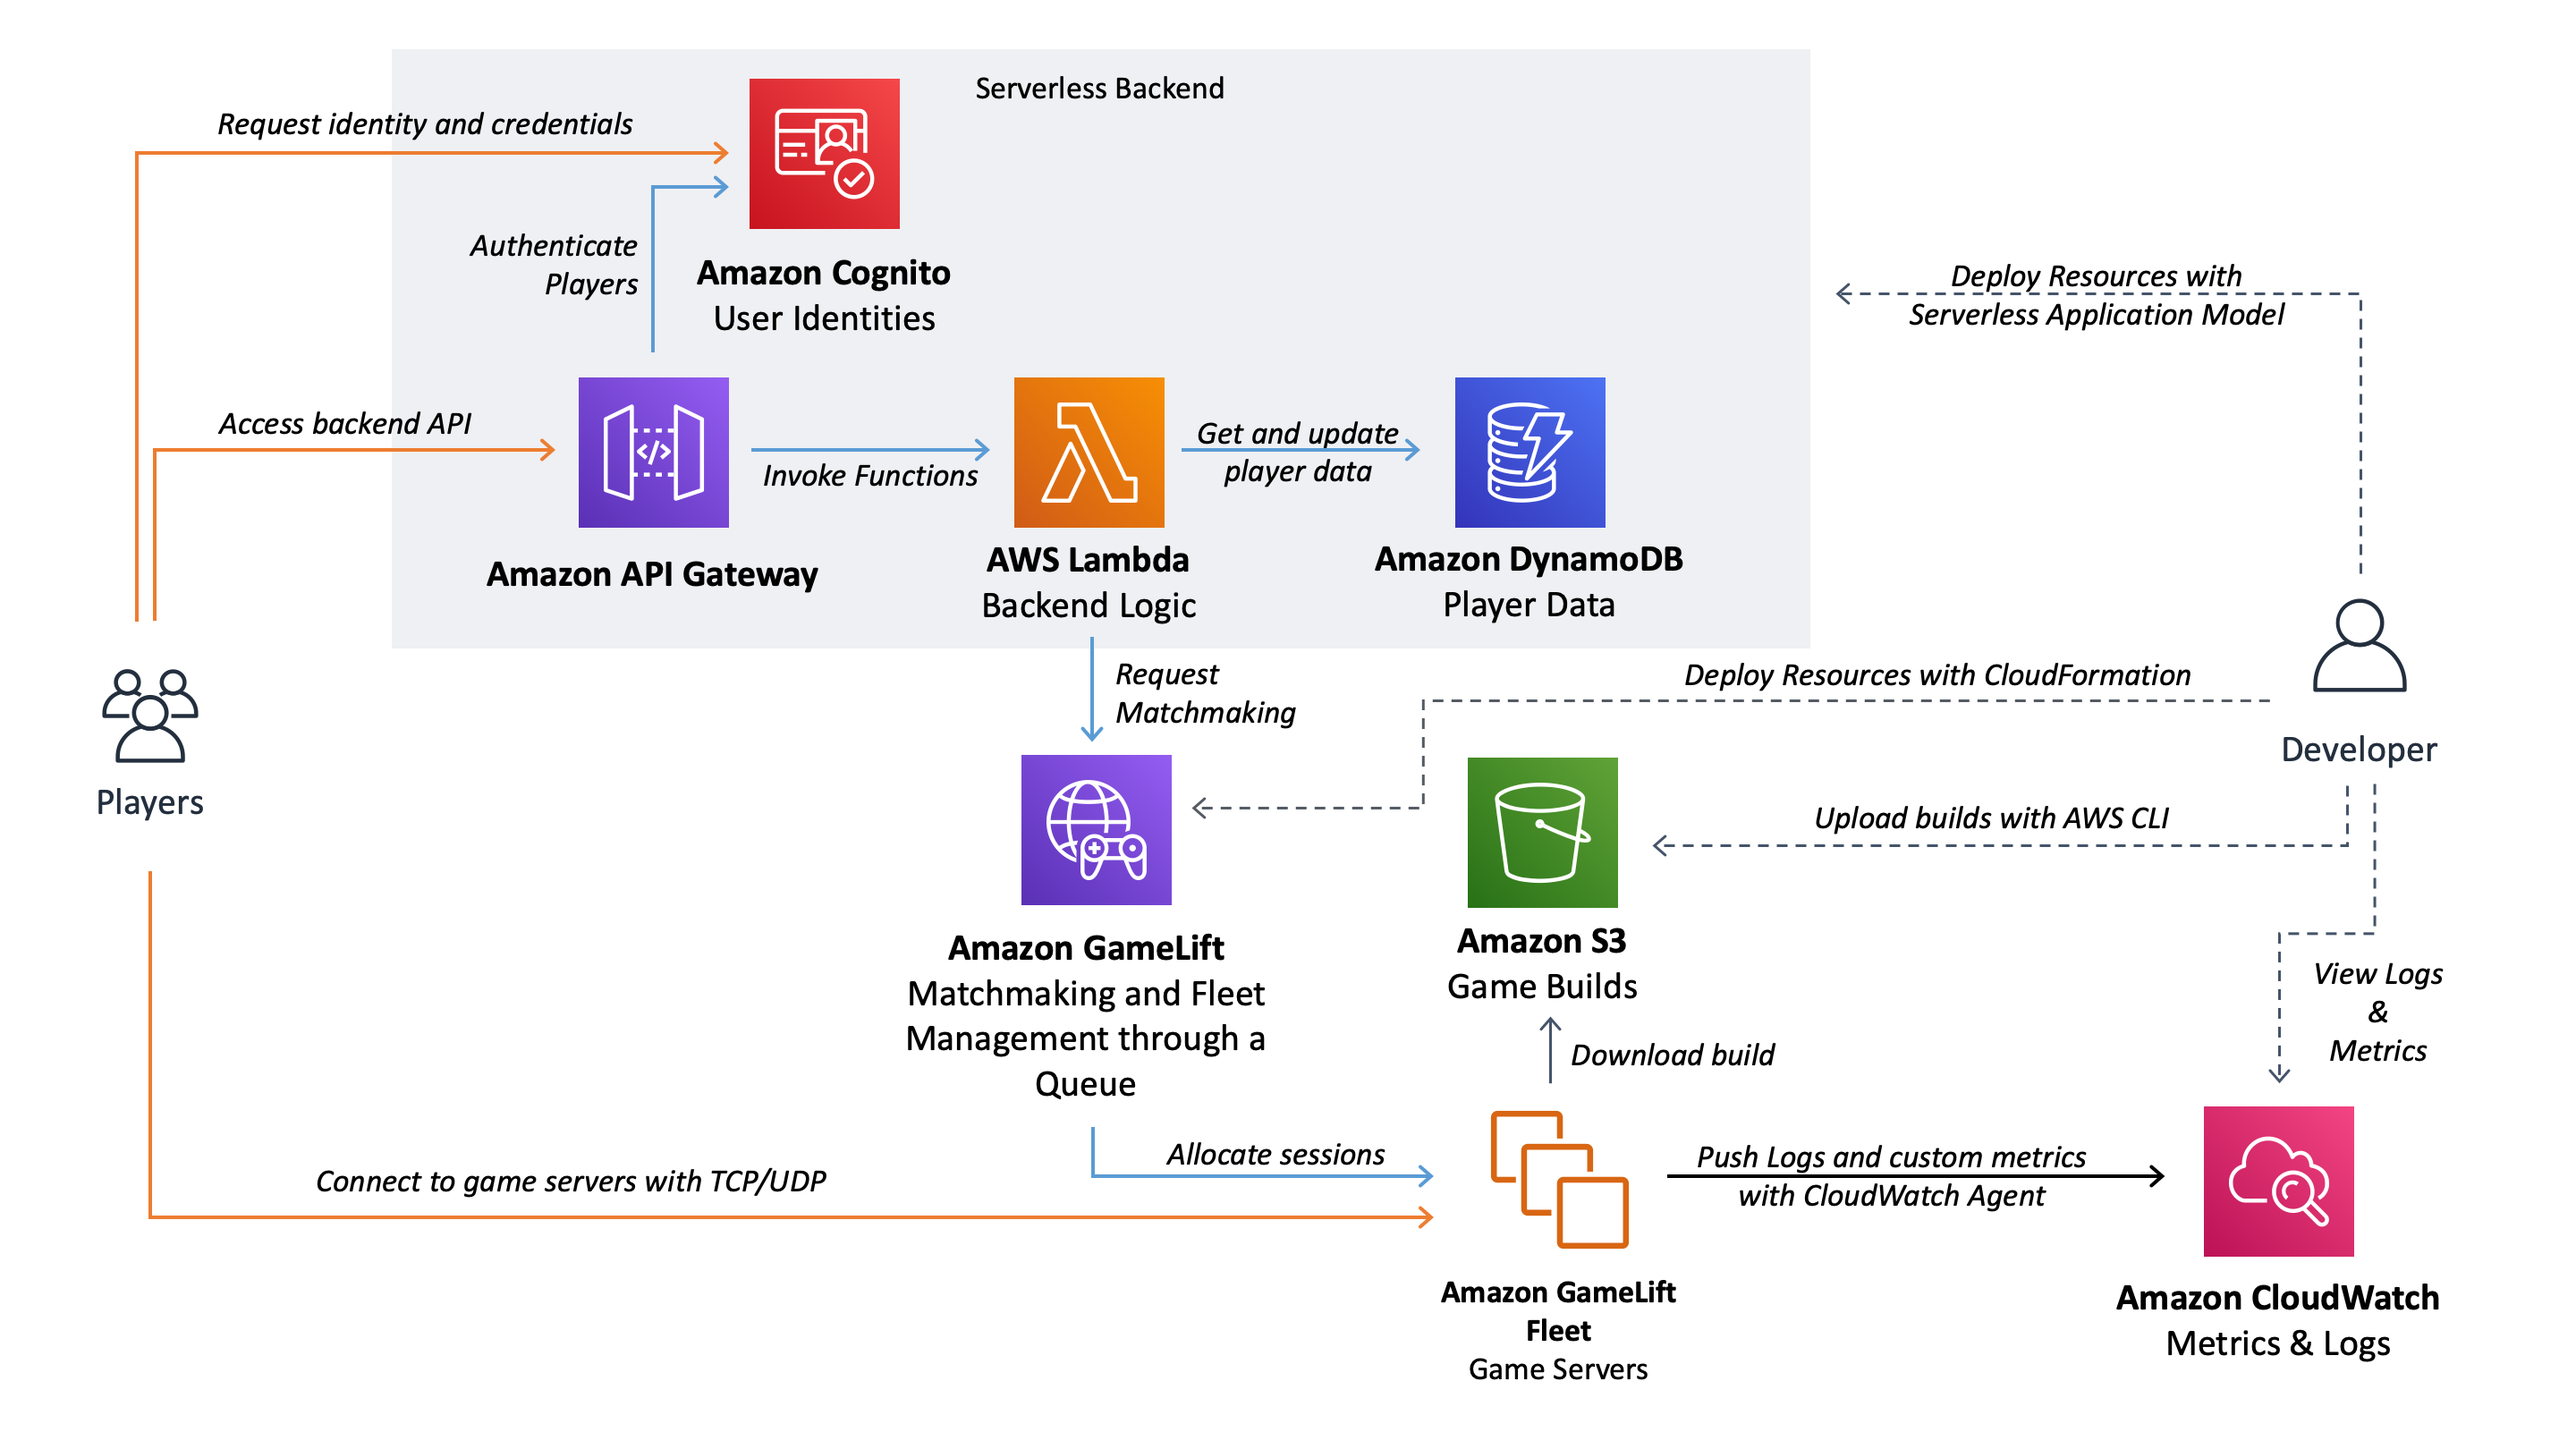
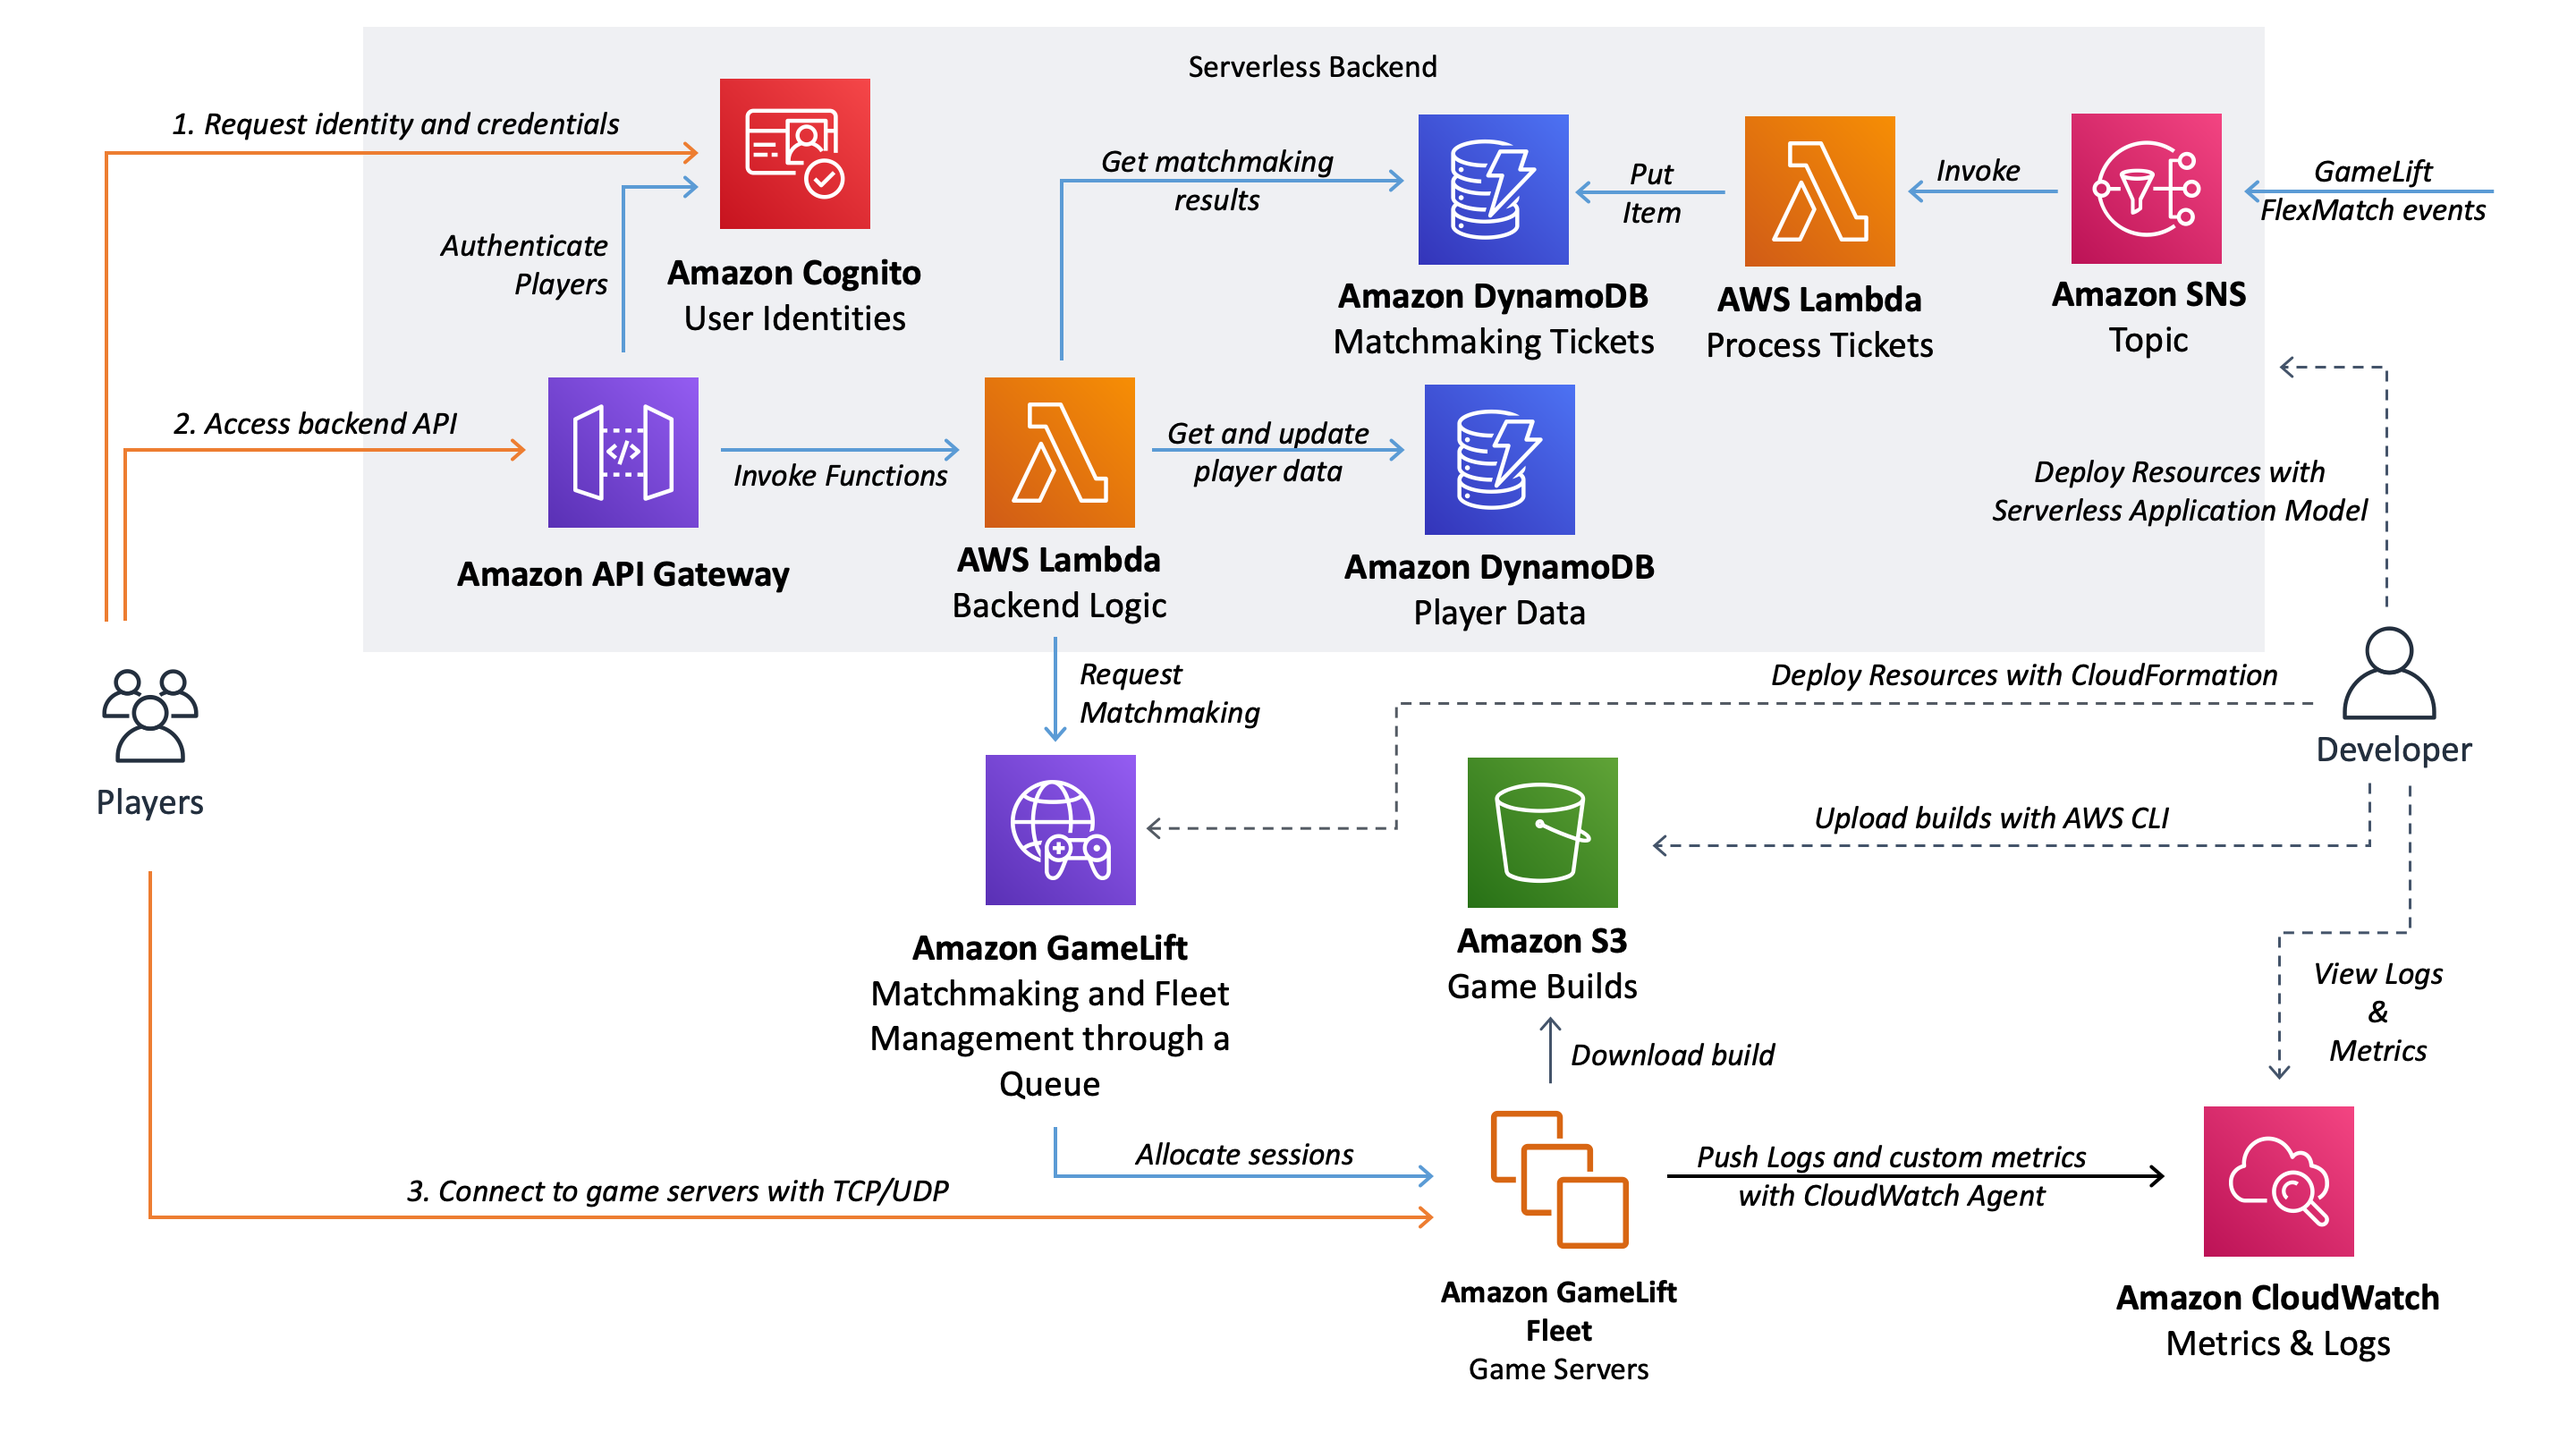
Process FlexMatch events with a Lambda function and store ticket information in DynamoDB

diff --git a/GameServiceAPI/gameservice/processmatchmakingevents.js b/GameServiceAPI/gameservice/processmatchmakingevents.js
@@ -1,0 +1,59 @@
+// Copyright Amazon.com, Inc. or its affiliates. All Rights Reserved.
+// SPDX-License-Identifier: Apache-2.0
+
+const AWS = require('aws-sdk');
+
+exports.handler = async (event, context, callback) => {
+
+    var ddb = new AWS.DynamoDB({apiVersion: '2012-08-10'});
+
+    //Parse the FlexMatch message
+    var message = event.Records[0].Sns.Message;
+    message = JSON.parse(message);
+    console.log('Message received from SNS:', message);
+    console.log('Event type:' + message.detail.type)
+    var type = message.detail.type
+    // Only process if matchmaking succeeded
+    if(type == 'MatchmakingSucceeded')
+    {
+      console.log("Succeeded matchmaking.")
+      var ip = message.detail.gameSessionInfo.ipAddress
+      var port = message.detail.gameSessionInfo.port
+      var dnsName = message.detail.gameSessionInfo.dnsName
+
+      // Get Epoch for TTL, we expire in 1 hour
+      var date = new Date();
+      date.setHours(date.getHours() + 1);
+      var epochDate = parseInt(date.getTime()/1000);
+
+      // Go through the tickets and write to DynamoDB
+      for (var i = 0; i < message.detail.tickets.length; i++)
+      {
+        var ticketId = message.detail.tickets[i].ticketId
+        // Note: We know there's only one player session in each ticket, this might be different based on your implementation!
+        var playerSessionId = message.detail.tickets[i].players[0].playerSessionId
+        console.log("Ticket: " + ticketId)
+        console.log("PlayerSessionId: " + playerSessionId)
+        // Write to DynamoDB
+        var params = {
+          TableName: 'GameLiftExampleMatchmakingTickets',
+          Item: {
+            'TicketID' : {S: ticketId},
+            'playerSessionId' : {S: playerSessionId},
+            'ip' : {S: ip},
+            'port' : {S: port.toString()},
+            'dnsName' : {S: dnsName},
+            'TTL' : {N: epochDate.toString()}
+          }
+        };
+        // Call DynamoDB to add the item to the table
+        await ddb.putItem(params).promise().then(data => {
+            console.log("Success", data);
+        }).catch(err => {
+          console.log("Error in put item:", err);
+        });
+      }
+    }
+
+    callback(null, "Success");
+};

diff --git a/GameServiceAPI/gameservice/requestmatchstatus.js b/GameServiceAPI/gameservice/requestmatchstatus.js
@@ -6,37 +6,42 @@ const AWS = require('aws-sdk');
 const GameLift = new AWS.GameLift({region: process.env.AWS_REGION});
 
 exports.requestMatchStatus = async (event) => {
+  
     let response;
 
     //Get the ticket from request querystring
     var ticketId = event.queryStringParameters.ticketId;
 
-    //Params for the matchmaking status check
-    var params = {
-      TicketIds: [ 
-        ticketId,
-      ]
-    };
-
     console.log("Ticket id: " + ticketId);
 
-    // Request matchmaking status
-    await GameLift.describeMatchmaking(params).promise().then(data => {
+    var ddb = new AWS.DynamoDB({apiVersion: '2012-08-10'});
 
-      console.log(data);
-      var matchTicket = data.TicketList[0];
-      console.log("Match status: " + matchTicket.Status);
-      if(matchTicket.Status == "COMPLETED")
+    // Try to get the ticket data from DynamoDB
+    var params = {
+      TableName: 'GameLiftExampleMatchmakingTickets',
+      Key: {
+        'TicketID': {S: ticketId }
+      }
+    };
+    await ddb.getItem(params).promise().then(data => {
+      if(data.Item != null)
       {
-          var responsedata = {
-            IpAddress : matchTicket.GameSessionConnectionInfo.IpAddress,
-            Port : matchTicket.GameSessionConnectionInfo.Port,
-            PlayerSessionId : matchTicket.GameSessionConnectionInfo.MatchedPlayerSessions[0].PlayerSessionId,
-            DnsName: matchTicket.GameSessionConnectionInfo.DnsName
-          }
+        console.log("Found Ticket")
+        ip = data.Item["ip"].S
+        port = parseInt(data.Item["port"].S)
+        playerSessionId = data.Item["playerSessionId"].S
+        dnsName = data.Item["dnsName"].S
+
+        var responsedata = {
+          IpAddress :ip,
+          Port : port,
+          PlayerSessionId : playerSessionId,
+          DnsName: dnsName
+        }
       }
       else
       {
+        console.log("Matchmaking not succeeded yet");
         var responsedata = {
           IpAddress : "",
           Port : 0,
@@ -55,7 +60,7 @@ exports.requestMatchStatus = async (event) => {
       };
 
     }).catch(err => {
-        console.log(err);
+      console.log("Couldn't access ticket data in DynamoDB: " + err);
     });
 
     //Return response if we got one

diff --git a/README.md b/README.md
@@ -15,7 +15,7 @@
 
 This repository contains a simple 3D game GameLift example with a backend service designed especially for getting started with MacOS, Windows and mobile development and leveraging deployment automation.
 
-**Note**: This repository exists for **example purposes only** and you always need to build and validate your own solution for production use. There is a known limitation as we are calling describe-matchmaking on a recurring interval to request match status which can hit the API limits with a larger player base. To mitigate this, you would use [FlexMatch events](https://docs.aws.amazon.com/gamelift/latest/flexmatchguide/match-events.html) and cache the result in DynamoDB for example.
+**Note**: This repository exists for **example purposes only** and you always need to build and validate your own solution for production use.
 
 # Key Features
 * Uses CloudFormation to automate the deployment of all resources
@@ -34,7 +34,7 @@ The project is a simple "game" where 2-10 players join the same session and move
 
 The project contains:
 * **A Unity Project** that will be used for both Client and Server builds (`GameLiftExampleUnityProject`)
-* **A Backend Project** created with Serverless Application Model (SAM) to create and API backend for matchmaking requests (`GameServiceAPI`)
+* **A Backend Project** created with Serverless Application Model (SAM) to create an API backend for matchmaking requests (`GameServiceAPI`)
 * **Fleet deployment automation** leveraging AWS CloudFormation to deploy all GameLift resources (`FleetDeployment`)
 * **A build folder for the server build** which includes a set of pre-required files for configuration and where you will build your Linux server build from Unity (`LinuxServerBuild`)
 
@@ -179,7 +179,9 @@ GameLift resources are deployed with CloudFormation templates. Two CloudFormatio
 
 The backend service is Serverless and built with Serverless Application Model. The AWS resources are defined in the SAM template `template.yaml` within the GameServiceAPI folder. SAM CLI uses this template to generate the `gameservice.yaml` template that is then deployed with CloudFormation. SAM greatly simplifies defining Serverless backends.
 
-The backend contains two key Lambda functions: **RequestMatchmakingFunction** and **RequestMatchStatusFunction** defined as Node.js scripts within the gameservice folder. These functions are called by the API Gateway defined in the template that uses AWS_IAM authentication. Only signed requests are allowed and the clients use their Cognito credentials to sign the requests. This way we also have their **Cognito identity** available within Lambda which is used to securely identify users and access their data in DynamoDB.
+The backend contains three key Lambda functions: **RequestMatchmakingFunction** and **RequestMatchStatusFunction** are defined as Node.js scripts within the gameservice folder. These functions are called by the API Gateway defined in the template that uses AWS_IAM authentication. Only signed requests are allowed and the clients use their Cognito credentials to sign the requests. This way we also have their **Cognito identity** available within Lambda which is used to securely identify users and access their data in DynamoDB.
+
+**ProcessMatchmakingEventsFunction** is triggered by Amazon SNS events published by GameLift FlexMatch. It will catch the MatchmakingSucceeded events and write the results in DynamoDB Table "GameLiftExampleMatchmakingTickets". RequestMatchStatusFunction will use the DynamoDB table to check if a ticket has succeeded matchmaking. This way we don't need to use the DescribeMatchmaking API of GameLift which can easily throttle with a large player count. The DynamoDB Table also has a TTL field and and configuration which means the tickets will be automatically removed after one hour of creation.
 
 The SAM template defines IAM Policies to allow the Lambda functions to access both GameLift to request matchmaking as well as DynamoDB to access the player data. It is best practice to never allow game clients to access these resources directly as this can open different attack vectors to your resources.
 
